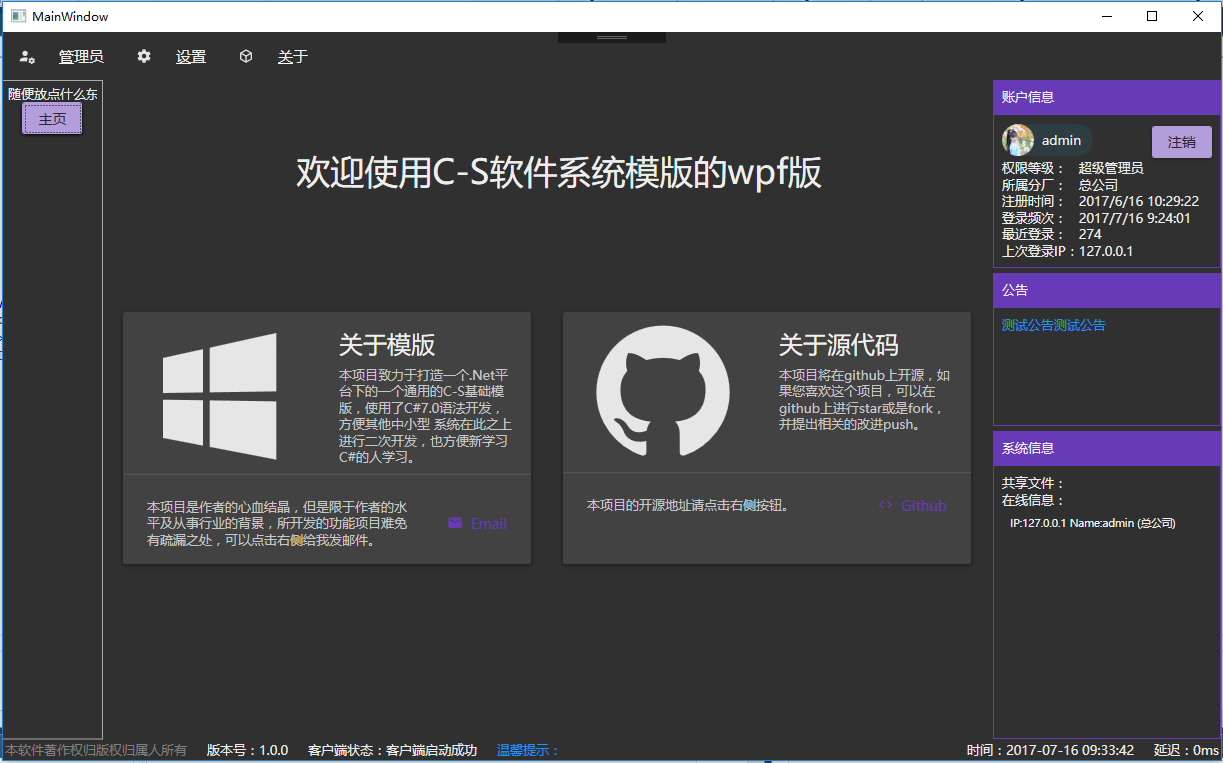
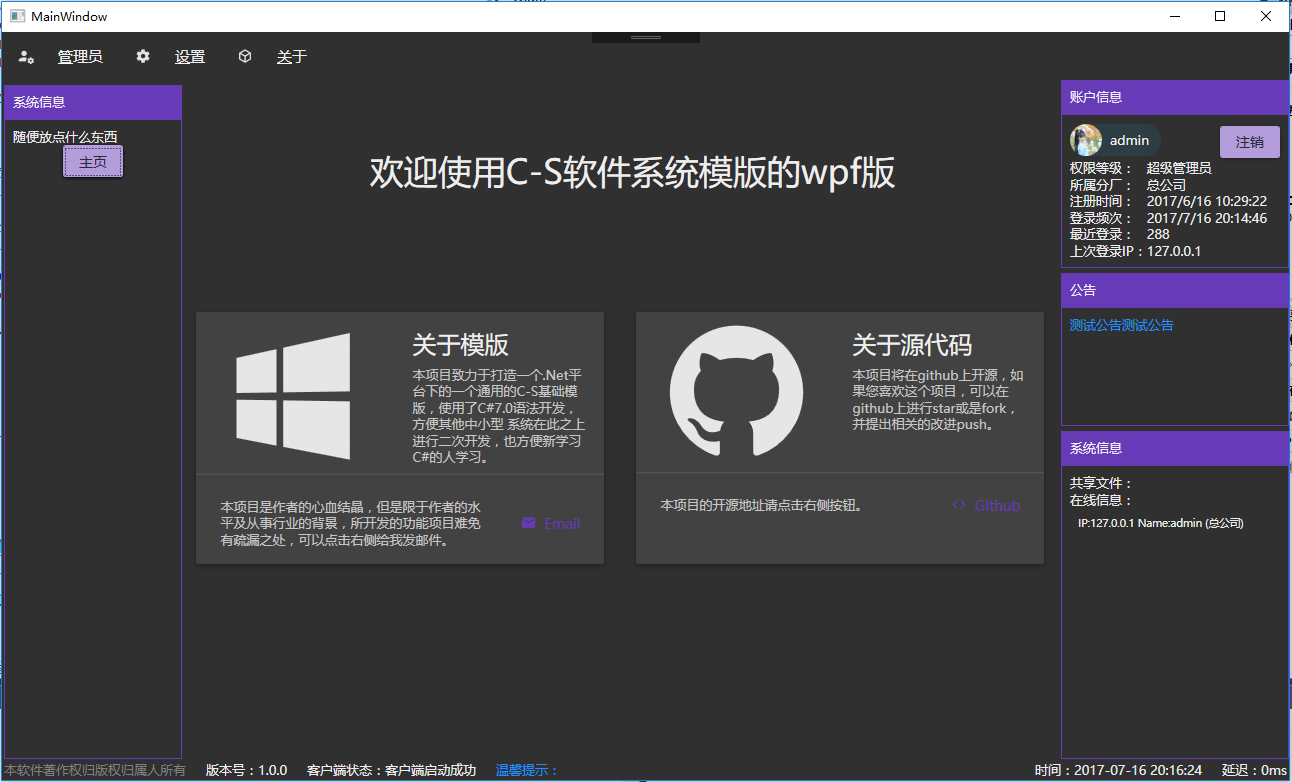
添加聊天功能，主界面修改一点显示

diff --git a/软件系统客户端Wpf/MainWindow.xaml b/软件系统客户端Wpf/MainWindow.xaml
@@ -163,16 +163,18 @@
                 </Grid>
             </Grid>
 
-            <Grid Width="100" DockPanel.Dock="Left">
-                <Border BorderThickness="0,1,1,1" BorderBrush="DarkGray" Padding="5">
-                    <StackPanel>
-                        <TextBlock>随便放点什么东西</TextBlock>
-                        <Button Style="{StaticResource MaterialDesignRaisedLightButton}" Grid.Column="1" Width="60" VerticalAlignment="Center"
+            <Grid Width="180" DockPanel.Dock="Left">
+                <GroupBox Header="系统信息" Margin="2,5,0,0">
+                    <Grid>
+                        <StackPanel>
+                            <TextBlock>随便放点什么东西</TextBlock>
+                            <Button Style="{StaticResource MaterialDesignRaisedLightButton}" Grid.Column="1" Width="60" VerticalAlignment="Center"
                                         Click="Button_BackMain_Click">
-                            主页
-                        </Button>
-                    </StackPanel>
-                </Border>
+                                主页
+                            </Button>
+                        </StackPanel>
+                    </Grid>
+                </GroupBox>
             </Grid>
 
             

diff --git a/软件系统客户端Wpf/Views/UserChat.xaml b/软件系统客户端Wpf/Views/UserChat.xaml
@@ -13,14 +13,25 @@
             <RowDefinition Height="auto"></RowDefinition>
         </Grid.RowDefinitions>
 
-        <ListBox>
+
+        <TextBox IsReadOnly="True" x:Name="TextBox_ChatHistory" VerticalScrollBarVisibility="Auto" TextWrapping="Wrap"></TextBox>
+        <!--<ListBox>
             <ListBox.ItemTemplate>
                 <DataTemplate>
                     
                 </DataTemplate>
             </ListBox.ItemTemplate>
-        </ListBox>
+        </ListBox>-->
 
         <TextBlock Grid.Row="1" Margin="2">按Enter键发送消息：</TextBlock>
+        <Grid Grid.Row="2">
+            <Grid.ColumnDefinitions>
+                <ColumnDefinition Width="*"></ColumnDefinition>
+                <ColumnDefinition Width="auto"></ColumnDefinition>
+            </Grid.ColumnDefinitions>
+
+            <TextBox MaxLines="1" KeyDown="TextBox_KeyDown" x:Name="TextBox_Send"></TextBox>
+            <Button Style="{StaticResource MaterialDesignRaisedButton}" Grid.Column="1" Click="Button_Click">发送</Button>
+        </Grid>
     </Grid>
 </UserControl>

diff --git a/软件系统客户端Wpf/Views/UserChat.xaml.cs b/软件系统客户端Wpf/Views/UserChat.xaml.cs
@@ -2,6 +2,7 @@
 using System.Collections.Generic;
 using System.Linq;
 using System.Text;
+using System.Text.RegularExpressions;
 using System.Threading.Tasks;
 using System.Windows;
 using System.Windows.Controls;
@@ -31,14 +32,14 @@ namespace 软件系统客户端Wpf.Views
 
         public void DealwithReceive(string str)
         {
-            //richTextBox1.AppendText(str + Environment.NewLine);
-            //int length = str.IndexOf(Environment.NewLine) + 1;
-            //if (length > 0)
-            //{
-            //    richTextBox1.Select(richTextBox1.Text.Length - str.Length + 1, length);
-            //    richTextBox1.SelectionColor = Color.Blue;
-            //}
-            //ScrollToDown();
+            TextBox_ChatHistory.AppendText(str + Environment.NewLine);
+            int length = str.IndexOf(Environment.NewLine) + 1;
+            if (length > 0)
+            {
+                TextBox_ChatHistory.Select(TextBox_ChatHistory.Text.Length - str.Length + 1, length);
+                TextBox_ChatHistory.SelectionBrush = Brushes.Blue;
+            }
+            ScrollToDown();
         }
         /// <summary>
         /// 新增聊天的历史记录
@@ -46,19 +47,19 @@ namespace 软件系统客户端Wpf.Views
         /// <param name="str"></param>
         public void AddChatsHistory(string str)
         {
-            //richTextBox1.Text = str;
-            //MatchCollection mc = Regex.Matches(str, @"\u0002.+\r\n");
-            //int indexrow = 0;
-            //if (str != "")
-            //{
-            //    foreach (Match m in mc)
-            //    {
-            //        richTextBox1.Select(m.Index - indexrow * 2, m.Length - 2);
-            //        richTextBox1.SelectionColor = Color.Blue;
-            //        indexrow++;
-            //    }
-            //}
-            //ScrollToDown();
+            TextBox_ChatHistory.Text = str;
+            MatchCollection mc = Regex.Matches(str, @"\u0002.+\r\n");
+            int indexrow = 0;
+            if (str != "")
+            {
+                foreach (Match m in mc)
+                {
+                    TextBox_ChatHistory.Select(m.Index - indexrow * 2, m.Length - 2);
+                    TextBox_ChatHistory.SelectionBrush = Brushes.Blue;
+                    indexrow++;
+                }
+            }
+            ScrollToDown();
         }
 
         public void InputFocus()
@@ -66,15 +67,36 @@ namespace 软件系统客户端Wpf.Views
             //textBox1.Focus();
         }
 
+        private void Button_Click(object sender, RoutedEventArgs e)
+        {
+            if (!string.IsNullOrEmpty(TextBox_Send.Text))
+            {
+                SendString?.Invoke(TextBox_Send.Text);
+                TextBox_Send.Text = "";
+            }
+        }
+
+        private void TextBox_KeyDown(object sender, KeyEventArgs e)
+        {
+            //按下Enter键后进行发送数据到服务器
+            if (!string.IsNullOrEmpty(TextBox_Send.Text))
+            {
+                if (e.Key == Key.Enter)
+                {
+                    SendString?.Invoke(TextBox_Send.Text);
+                    TextBox_Send.Text = "";
+                }
+            }
+        }
 
 
-        ///// <summary>
-        ///// 光标滚动到最底端
-        ///// </summary>
-        //public void ScrollToDown()
-        //{
-        //    richTextBox1.SelectionStart = richTextBox1.Text.Length;
-        //    richTextBox1.ScrollToCaret();
-        //}
+
+        /// <summary>
+        /// 光标滚动到最底端
+        /// </summary>
+        public void ScrollToDown()
+        {
+            TextBox_ChatHistory.ScrollToEnd();
+        }
     }
 }

diff --git a/软件系统客户端Wpf/MainWindow.xaml.cs b/软件系统客户端Wpf/MainWindow.xaml.cs
@@ -290,6 +290,7 @@ namespace 软件系统客户端Wpf
             //Task.Factory.StartNew(() => messageQueue.Enqueue(message));
 
             SetShowRenderControl(UIControls_Chat);
+            UIControls_Chat.ScrollToDown();
         }
 
         private void MenuItem头像更改_Click(object sender, RoutedEventArgs e)
@@ -425,7 +426,7 @@ namespace 软件系统客户端Wpf
                 {
                     TextBlock_ServerTime.Text = UserClient.DateTimeServer.ToString("yyyy-MM-dd HH:mm:ss");
                     //label_file_count.Text = json["FileCount"].ToObject<int>().ToString();
-                    //UIControls_Chat.AddChatsHistory(sb.ToString());
+                    UIControls_Chat.AddChatsHistory(sb.ToString());
                 }));
             }
             else if (customer == CommonHeadCode.MultiNetHeadCode.文件总数量)
@@ -439,7 +440,7 @@ namespace 软件系统客户端Wpf
             {
                 if (IsWindowShow) Dispatcher.Invoke(new Action(() =>
                 {
-                    //UIControls_Chat?.DealwithReceive(data);
+                    UIControls_Chat?.DealwithReceive(data);
                 }));
             }
         }
